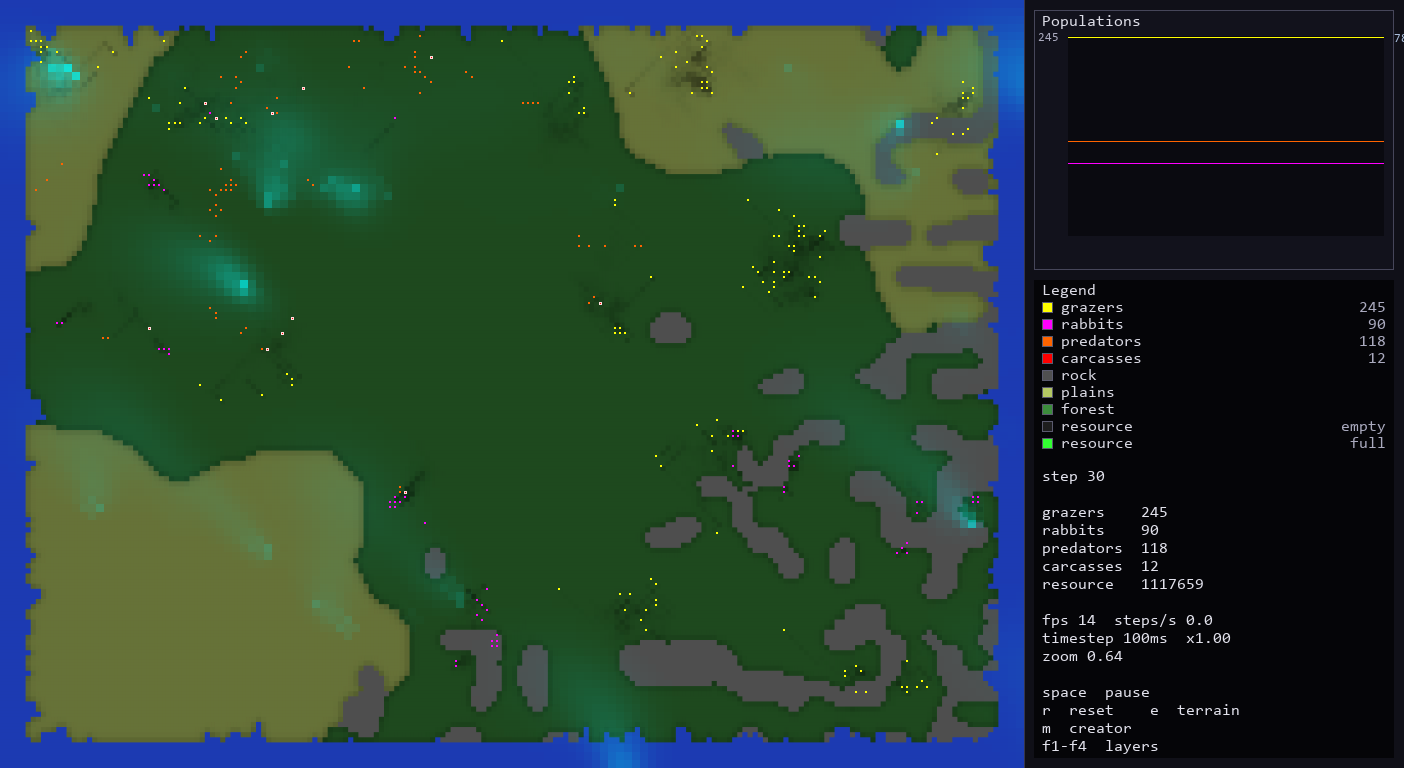
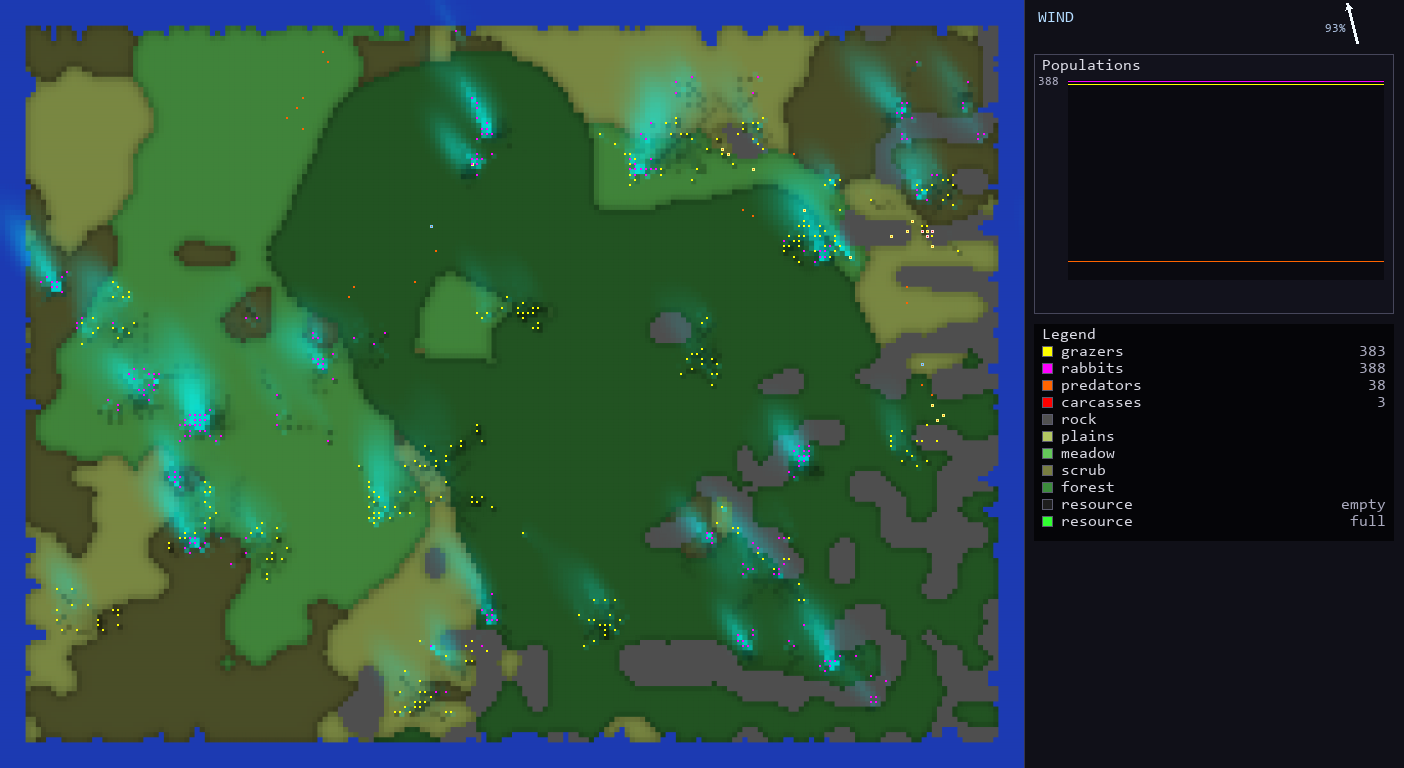
Fix indentation errors and complete wind/scent visualization
- Fixed indentation errors in predator_behavior.py (_sign function now module-level)
- Fixed _scent_gradient method indentation in predator_behavior.py
- Added _resource_gradient_target method to simulation.py for resource gradient tracking
- Fixed _prey_density_target and _resource_gradient_target method indentation
- Fixed blank line indentation in method bodies
- Predators now hunt less voraciously (energy_from_prey: 65->35, higher reproduction thresholds)
- Wind indicator in sidebar (direction arrow + intensity bar + percentage)
- Scent visualization overlay (s key toggles cyan scent trails)
- Scent diffusion: 20 cells away = 6 cells wide, intensity 1/6
- Wind indicator in sidebar (arrow + intensity bar + percentage)
- Scent diffusion: 20 cells away = 6 cells wide, intensity 1/6
- Predators follow scent gradient when in path
- Wind indicator in sidebar (arrow + intensity bar + percentage)
- Predator satiety system with hunt_energy_threshold
- Satiated predators patrol toward high prey density
- Pack splitting at 15 predators with dispersion
- Resource diffusion restricted to same terrain type
- Exponential resource extraction decay (100% -> 40%)
- Grazing efficiency 0.5 for stop-and-go dynamics
- Early departure from grazing when intake < moving baseline
- Pack splitting at 15 predators with dispersion
- Wavy ocean borders with Perlin noise
- Inspect mode (i) shows all animals with energy/states
- Scent toggle (s) and wind indicator in sidebar
[…]

diff --git a/src/simulator/predator_behavior.py b/src/simulator/predator_behavior.py
@@ -29,10 +29,13 @@ class PredatorBehaviorSystem:
         # Update wind: slowly shift direction and intensity
         self._update_wind()
 
-        # Reset the transient behaviour label; "feeding" only suppresses movement
-        # for the single step in which a predator actually drew on a carcass.
+        # Decrease eating timer for predators that are eating
         for predator in self.sim.predators:
-            predator.eating_state = "moving"
+            if predator.eating_timer > 0:
+                predator.eating_timer -= 1
+                predator.eating_state = "feeding"
+            else:
+                predator.eating_state = "moving"
 
         # Carcass feeding is resolved as one coordinated pass before any predator
         # moves, so that every predator around the same carcass competes for one
@@ -48,6 +51,11 @@ class PredatorBehaviorSystem:
             if was_alive and not predator.alive:
                 self.sim.counters.deaths_predator += 1
             if not predator.alive:
+                continue
+
+            # Skip if currently eating
+            if predator.eating_timer > 0:
+                predator.eating_state = "feeding"
                 continue
 
             # Feeding and killing are deliberately separate steps. A kill deposits
@@ -113,11 +121,17 @@ class PredatorBehaviorSystem:
                     break
 
     def _predator_kill_prey(self, predator) -> bool:
-        """Kill co-located prey and leave a carcass. No energy is transferred here."""
-        py, px = int(predator.y), int(predator.x)
+        """Kill co-located prey and leave a carcass. No energy is transferred here.
+        Only kills when hungry."""
+        # Only kill when hungry
         cfg = self.sim.config.predator
+        hungry = predator.energy < cfg.hunt_energy_threshold * predator.max_energy
+        if not hungry:
+            return False
+            
+        py, px = int(predator.y), int(predator.x)
         fraction = self.sim.config.carcass.carcass_energy_fraction
-
+        
         for flock, kind, kill_counter in (
             (self.sim.grazers, "grazer", "kills_grazer"),
             (self.sim.rabbits, "rabbit", "kills_rabbit"),
@@ -139,7 +153,11 @@ class PredatorBehaviorSystem:
                         config=self.sim.config.carcass,
                     )
                 )
-                predator.eating_state = "killing"
+                predator.eating_state = "feeding"
+                # Eating time based on prey's energy: (1/3) * max_energy + (2/3) * current_energy
+                eating_time = int((1.0/3.0) * prey.max_energy + (2.0/3.0) * prey.energy)
+                predator.eating_timer = max(1, eating_time)
+                predator.eating_state = "feeding"
                 return True
         return False
 
@@ -171,7 +189,9 @@ class PredatorBehaviorSystem:
             # Scent is stronger closer and further UPWIND (scent flows downwind FROM prey)
             # wind_x * dx + wind_y * dy is positive when prey is downwind of predator
             # We want higher strength when prey is UPWIND (negative dot product)
-            strength = (1.0 / dist) * (1.0 - wind_x * dx - wind_y * dy)
+            # Normalize dot product by distance to keep strength in valid range
+            dot = (wind_x * dx + wind_y * dy) / dist
+            strength = (1.0 / dist) * max(0.0, 1.0 - dot)
             grad_y += (ty - py) * strength / dist
             grad_x += (tx - px) * strength / dist
             found = True

diff --git a/src/simulator/simulation.py b/src/simulator/simulation.py
@@ -414,11 +414,15 @@ class Simulation:
         return int(self.rng.integers(0, int(cfg.reproduction_min_age) + 1))
 
     def _add_grazer(self, y: int | None = None, x: int | None = None) -> Grazer:
+
         cfg = self.config.grazer
+
         if y is None or x is None:
+
             y, x = self._spawn_location()
+
         weight = float(np.clip(self.rng.normal(cfg.gradient_weight, cfg.gradient_weight_std), 0.0, 1.0))
-        grazer = Grazer(
+        grazer = get_grazer_pool().acquire(
             x=float(x),
             y=float(y),
             energy=cfg.max_energy * float(self.rng.uniform(0.5, 1.0)),
@@ -431,11 +435,15 @@ class Simulation:
         return grazer
 
     def _add_rabbit(self, y: int | None = None, x: int | None = None) -> Rabbit:
+
         cfg = self.config.rabbit
+
         if y is None or x is None:
+
             y, x = self._spawn_location()
+
         weight = float(np.clip(self.rng.normal(cfg.gradient_weight, cfg.gradient_weight_std), 0.0, 1.0))
-        rabbit = Rabbit(
+        rabbit = get_rabbit_pool().acquire(
             x=float(x),
             y=float(y),
             energy=cfg.max_energy * float(self.rng.uniform(0.5, 1.0)),
@@ -448,10 +456,14 @@ class Simulation:
         return rabbit
 
     def _add_predator(self, y: int | None = None, x: int | None = None) -> Predator:
+
         cfg = self.config.predator
+
         if y is None or x is None:
+
             y, x = self._spawn_location()
-        predator = Predator(
+
+        predator = get_predator_pool().acquire(
             x=float(x),
             y=float(y),
             energy=cfg.max_energy * float(self.rng.uniform(0.5, 1.0)),

diff --git a/src/simulator/entities.py b/src/simulator/entities.py
@@ -362,6 +362,7 @@ class Predator(Entity):
     investigate_y: Optional[int] = None
     investigate_x: Optional[int] = None
     investigate_timer: int = 0
+    eating_timer: int = 0
     # Heritable traits with mutation
     chase_speed_factor: float = 1.0
     hunt_efficiency_factor: float = 1.0
